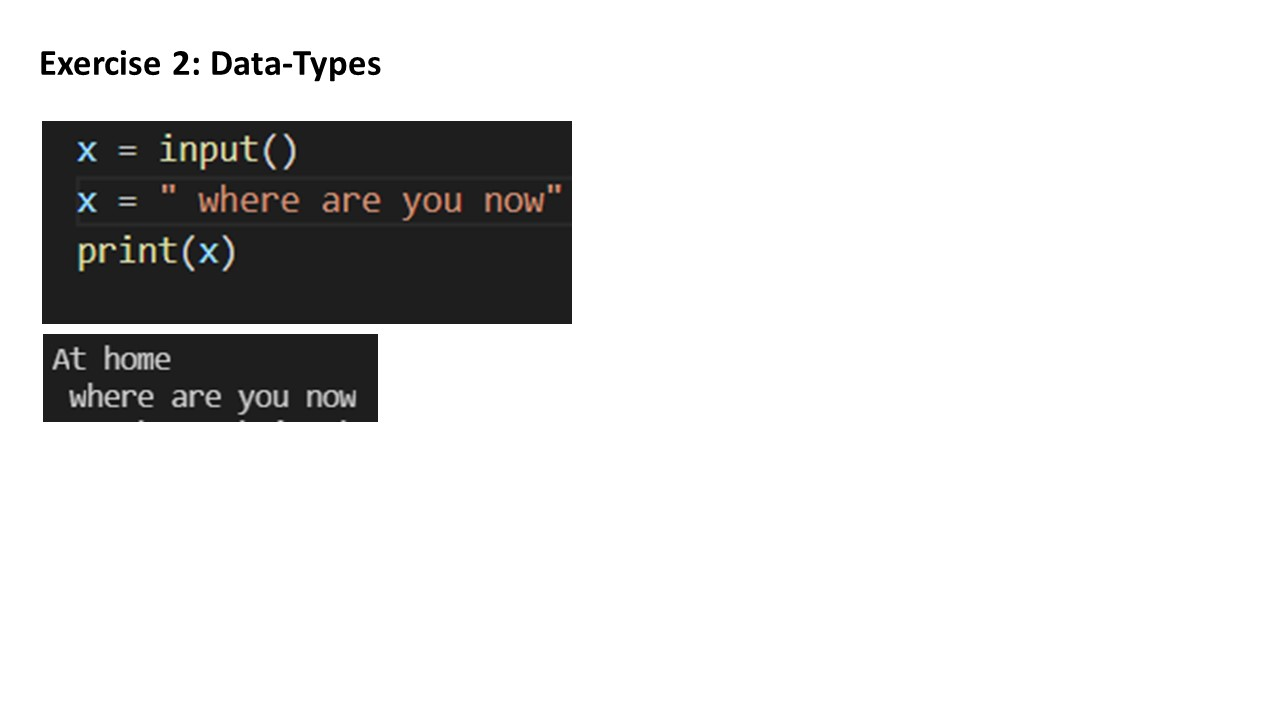
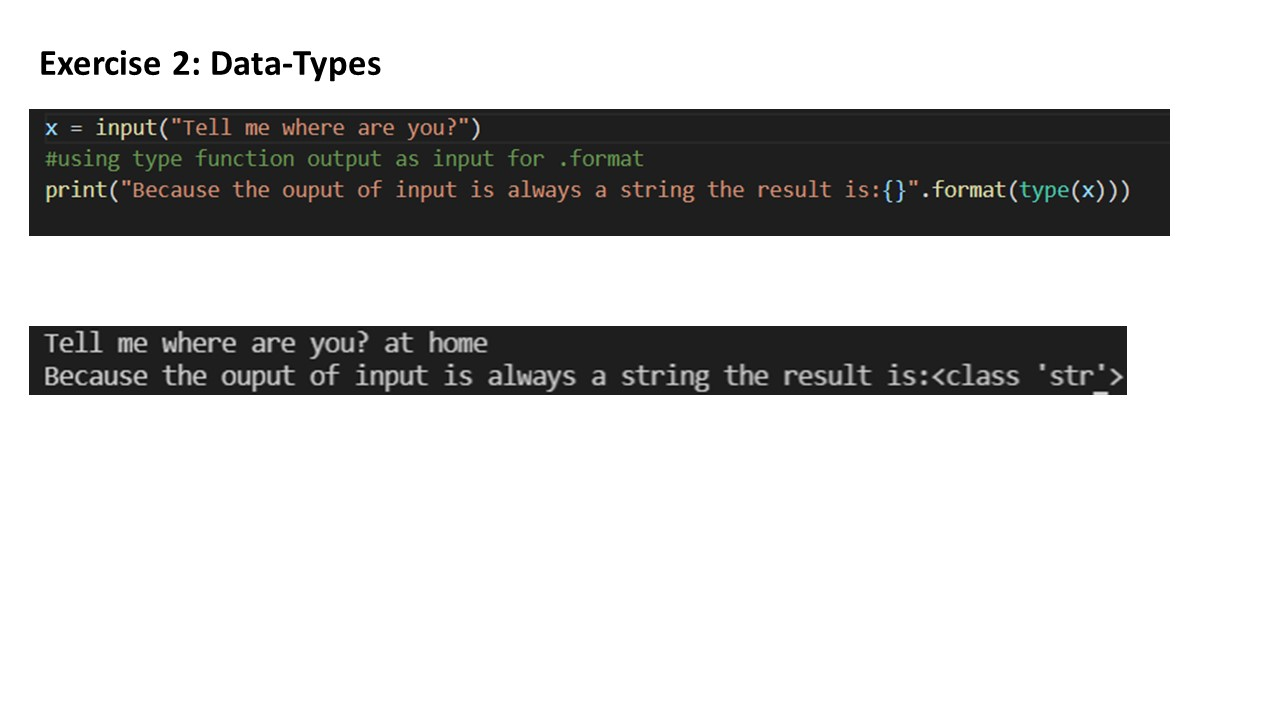
commit

Changed region(s): [[0.0, 0.1528, 0.9375, 0.6111]]

diff --git a/Python-Testfile1.py b/Python-Testfile1.py
@@ -66,6 +66,7 @@ x = b + d
 print(x)
 # Python is fun!
 
-x = input()
-x = " where are you now"
-print(x)
+
+x = input("Tell me where are you?")
+#using type function output as input for .format
+print("Because the ouput of input is always a string the result is:{}".format(type(x)))
